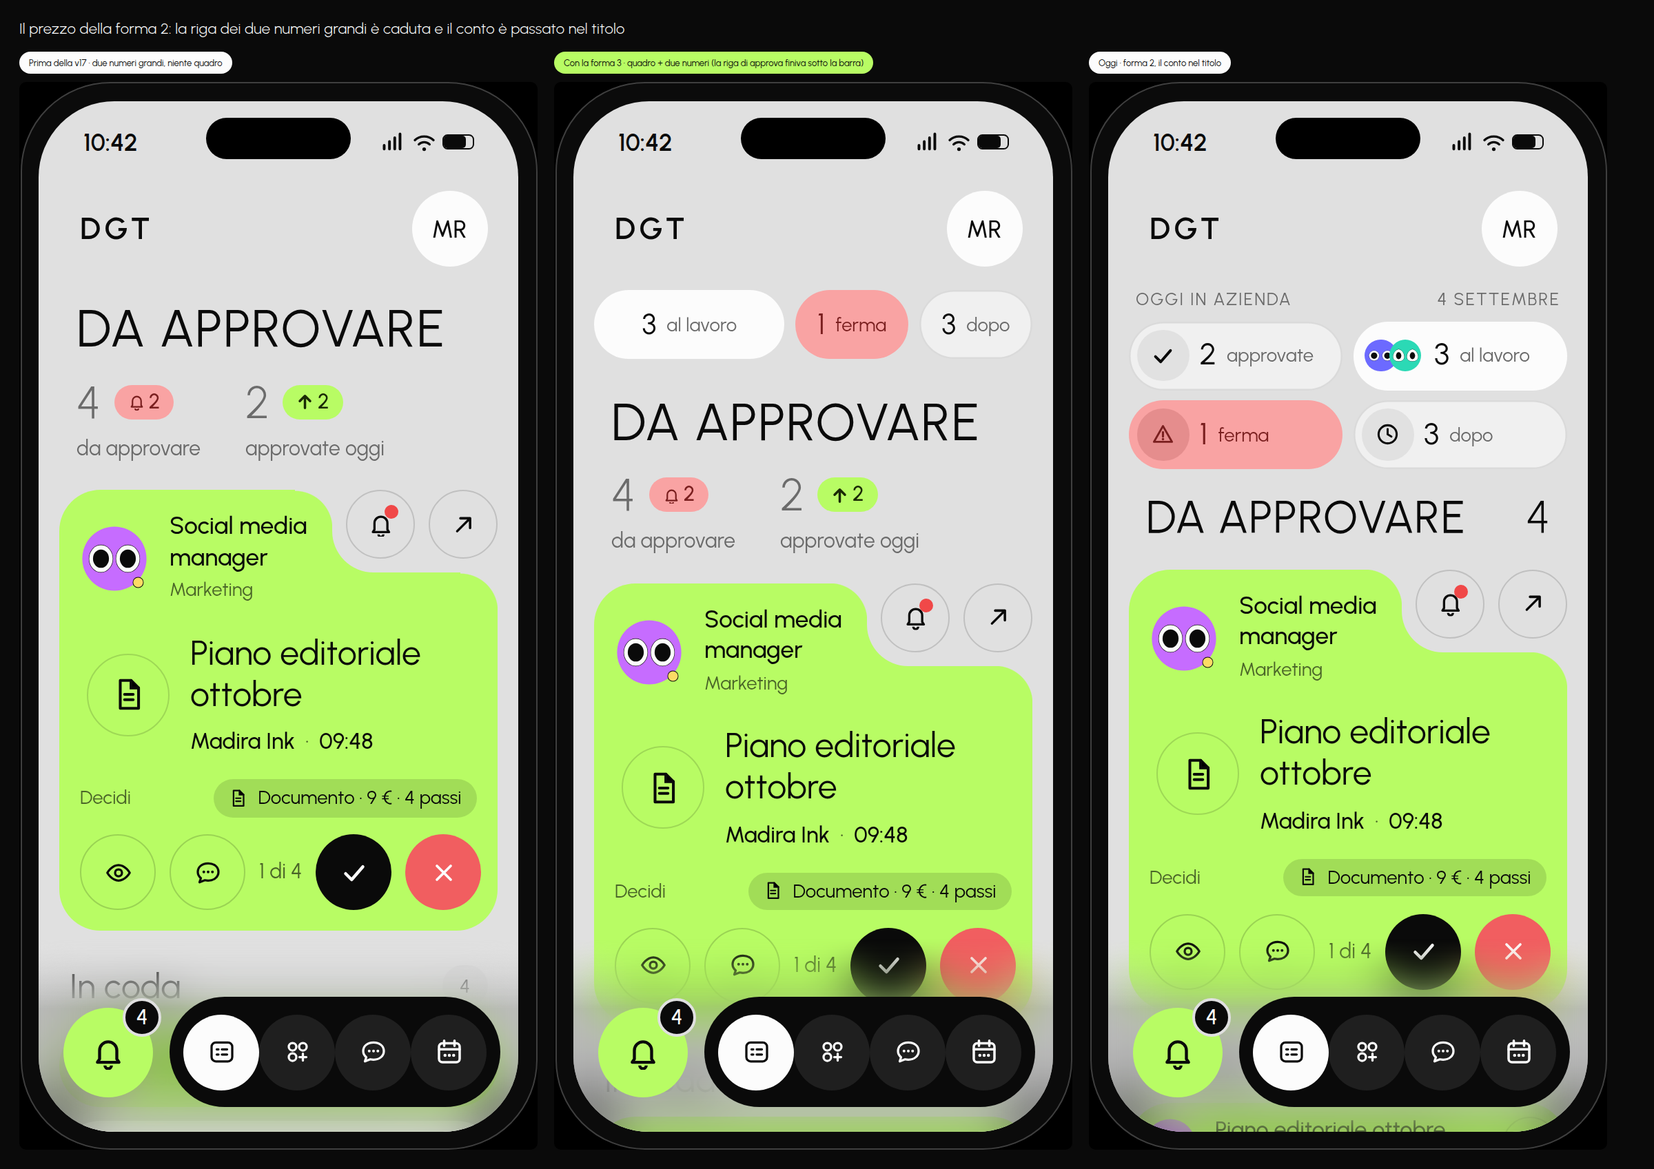
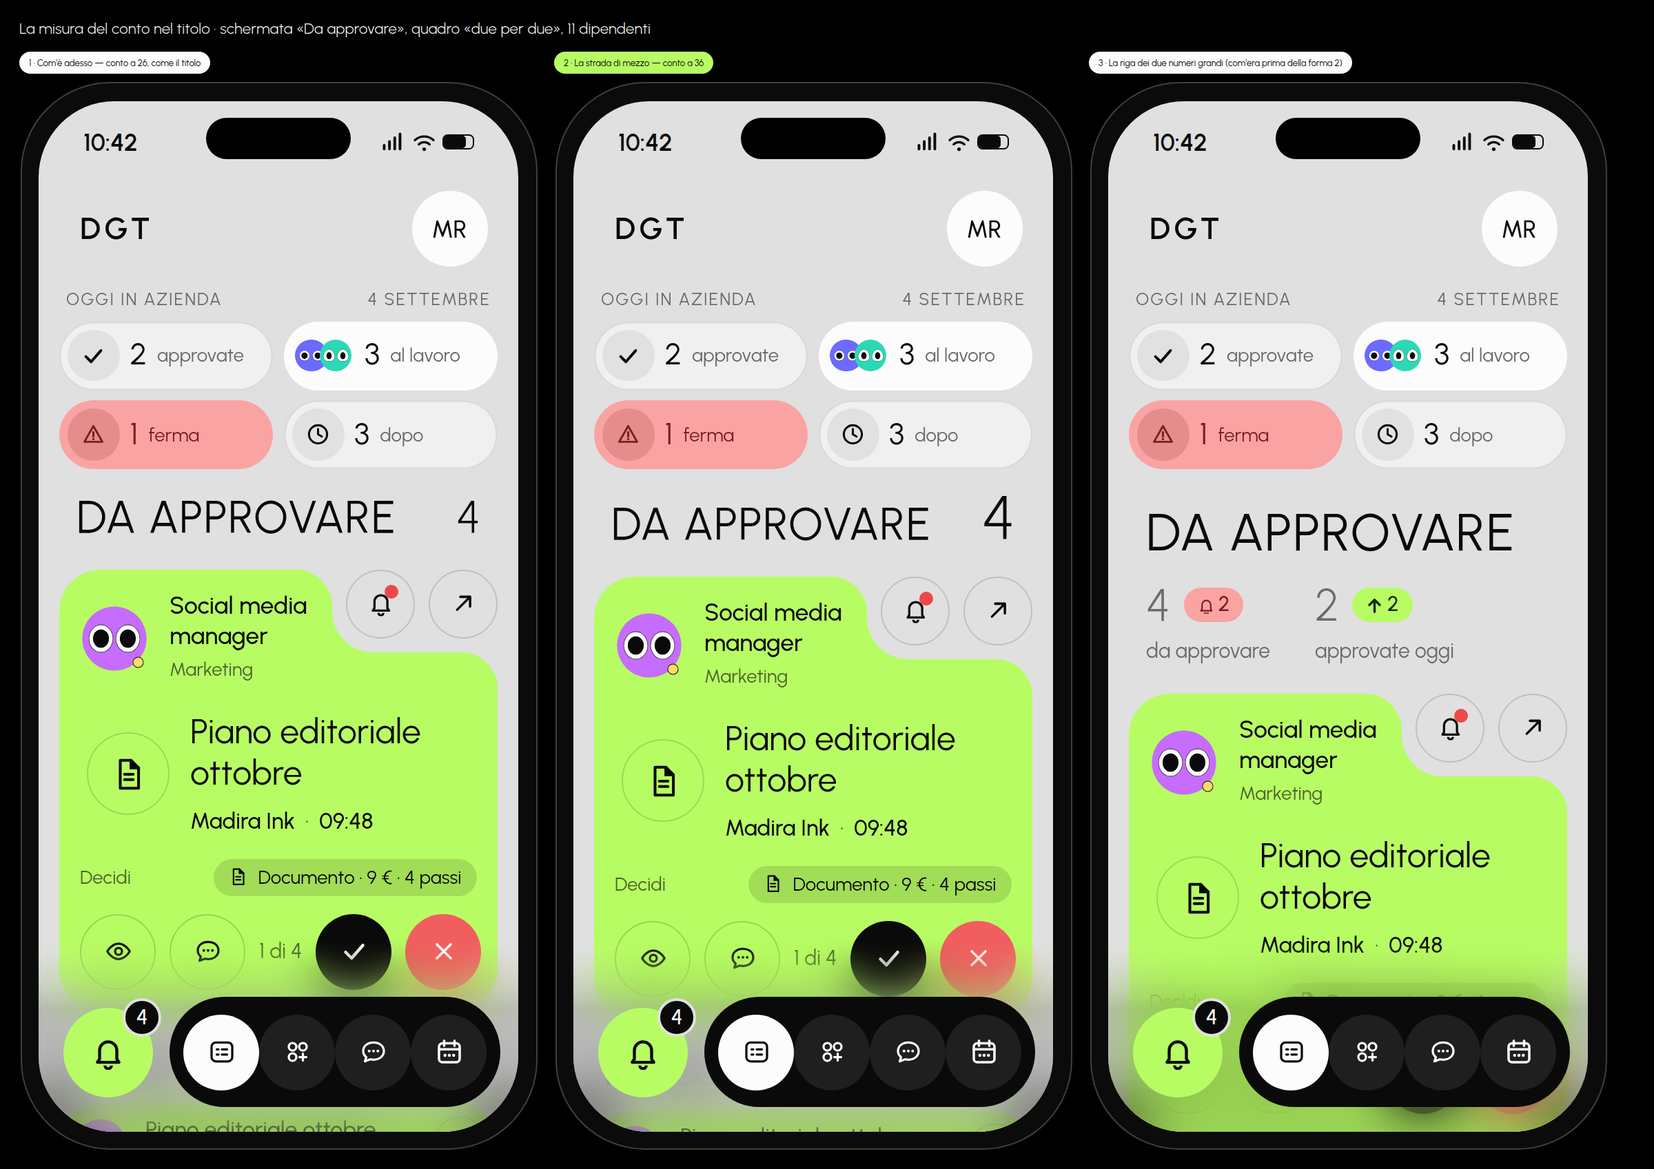
Telefono: lo studio della misura del conto nel titolo (?conta=)
Alla vista della versione 18 l'utente ha chiesto di rivedere il prezzo
pagato nella versione 17 per far stare il quadro «due per due»: la riga
dei due numeri grandi tolta dalla schermata 1 e il conto passato dentro
il titolo.

Tre forme disegnate nel telefono vero dietro ?conta=, catturate e
affiancate in m-conta-titolo.png: 1 il conto a 26 come il titolo (la
forma attiva), 2 la strada di mezzo col conto a 36, 0 la riga dei due
numeri grandi. Misurato: la strada di mezzo costa 4 px di card (244 su
256 invece di 248) e tiene la riga di approva e rifiuta sopra la
navigazione; la riga dei due numeri grandi ne lascia 176 e la fa
ricadere sotto. Nessuna delle due va a capo, nemmeno a tre cifre.

Corretto quello che diceva la versione 17: il titolo sta a 26 px per la
larghezza della parola, non per la misura del numero.

CONTA resta 1 finché l'utente non sceglie, quindi le undici catture del
telefono sono identiche byte per byte. Quattro verifiche nuove in
prove/mobile.js (mobile 70 -> 74, in tutto 283).

Claude-Session: https://claude.ai/code/session_01THzjTQkyQYxd6RnE8P6BiM

diff --git a/schermate/direzioni/mobile.js b/schermate/direzioni/mobile.js
@@ -324,6 +324,10 @@ window.DGT_MOBILE = (function () {
    cifre. È anche la misura dei numeri grandi che sostituisce, così titolo e conto si leggono come una riga sola. */
 .m-h1.conta{display:flex;align-items:baseline;justify-content:space-between;gap:12px;font-size:26px;line-height:32px;white-space:nowrap;padding-top:12px}
 .m-h1.conta b{font-weight:300;font-size:26px;line-height:30px;flex:none;letter-spacing:0}
+/* la strada di mezzo (?conta=2): il titolo resta a 26 e il conto sale a 36, così il numero torna a essere la prima cosa
+   che si vede — quello che faceva la riga dei due numeri grandi — senza ricomprarne i 78 px di altezza. La riga non
+   cresce perché il numero eredita l'interlinea del titolo e le cifre non hanno discendenti. */
+.m-h1.conta.grande b{font-size:36px;line-height:32px}
 /* forma 3 «la riga che parla» (scartata): una riga sola, le tre caselle che chiedono un'azione, numero e parola accanto.
    Niente pila: con la pila le tre caselle sommano 273 px e la colonna ne dà 254. */
 .m-quadro.riga .riga{display:flex;gap:6px;min-width:0}
@@ -436,6 +440,12 @@ window.DGT_MOBILE = (function () {
      ?barra=0 nella Console; ?quadro=0 toglie il quadro e rimette il telefono di prima. */
   const QUADRO = 2;
 
+  /* La misura del conto nel titolo della schermata 1 (studio del 2026-09-07, dopo la scelta della forma 2). Col quadro
+     «due per due» la riga dei due numeri grandi è caduta e «da approvare» è passato nel titolo: resta da decidere quanto
+     grande sia quel numero. 1 = come il titolo (26); 2 = la strada di mezzo, titolo 26 e numero 36; 0 = la riga dei due
+     numeri grandi torna al suo posto. `?conta=` sceglie. */
+  const CONTA = 1;
+
   /* ---------- il quadro del giorno (versione 17, 2026-09-07) ----------
      La barra «Oggi in azienda» della Console sul telefono. Stessi conti (`m.gruppiOggi()`), tre forme messe a confronto
      nello studio; `?quadro=` sceglie (0 = niente, il telefono di prima). Sul telefono cadono sempre i dettagli della
@@ -489,12 +499,14 @@ window.DGT_MOBILE = (function () {
       <div class="m-scroll">
         <div class="m-nav"><span class="m-logo">DGT</span><span class="r"><span class="av persona">${esc(m.azienda.titolare.iniziali)}</span></span></div>
         ${st.quadro ? quadroGiorno(m, st.quadro) : ''}
-        ${st.quadro === 2
+        ${st.quadro === 2 && st.conta
           /* con il quadro «due per due» il titolo porta il conto e la riga dei due numeri grandi cade: «approvate oggi» lo
-             dice già la casella del quadro (correzione 16a) e «da approvare» lo dice il titolo. Vedi il commento sotto. */
+             dice già la casella del quadro (correzione 16a) e «da approvare» lo dice il titolo. Vedi il commento sotto.
+             ?conta= sceglie la misura del numero: 1 come il titolo (26), 2 la strada di mezzo (36), 0 rimette la riga dei
+             due numeri grandi anche col quadro 2, per il confronto. */
           /* niente spazio fra la parola e il numero: sono due elementi flex e lo spazio, con nowrap, allarga il primo
              quanto basta a mandare il titolo a capo (misurato: 234 px liberi, 222 senza spazio, oltre con) */
-          ? `<h3 class="m-h1 conta">DA APPROVARE<b>${c.length}</b></h3>`
+          ? `<h3 class="m-h1 conta${st.conta === 2 ? ' grande' : ''}">DA APPROVARE<b>${c.length}</b></h3>`
           : `<h3 class="m-h1">DA APPROVARE</h3>
         <div class="m-stats">
           <div class="m-stat"><span class="num">${c.length}${c.length ? `<span class="badge down">${ic('i-bell')}${Math.min(2, c.length)}</span>` : ''}</span><span>da approvare</span></div>
@@ -760,7 +772,7 @@ window.DGT_MOBILE = (function () {
      quello che si decide su uno si vede subito sugli altri (e nella Console, che legge lo stesso modello). */
   function monta(radice, m, opz) {
     opz = opz || {};
-    const st = { richiesta: opz.richiesta || 0, filo: opz.filo || ((m.fili()[0] || {}).e || m.dipendenti[0]).id, quadro: opz.quadro === undefined ? QUADRO : opz.quadro, dip: opz.dip || m.dipartimenti[0].id, cerca: undefined };
+    const st = { richiesta: opz.richiesta || 0, filo: opz.filo || ((m.fili()[0] || {}).e || m.dipendenti[0]).id, quadro: opz.quadro === undefined ? QUADRO : opz.quadro, conta: opz.conta === undefined ? CONTA : opz.conta, dip: opz.dip || m.dipartimenti[0].id, cerca: undefined };
     const tels = (opz.schermate && opz.schermate.length ? opz.schermate : [1, 2, 3, 4, 5, 6, 7, 8]).map((s, i) => ({ n: i + 1, schermata: s >= 2 && s <= 8 ? s : 1, motivo: false }));
     const n = () => coda(m).length;
     radice.innerHTML = `<div class="m-page">

diff --git a/schermate/direzioni/prove/mobile.js b/schermate/direzioni/prove/mobile.js
@@ -132,6 +132,32 @@ const check = (cond, msg) => { if (cond) { ok++; console.log('  ok  ' + msg); } 
   });
   check(misure.visibile >= 245, `della card della richiesta restano visibili ${misure.visibile} px su 256 sopra la navigazione`);
   check(misure.sopra, `la riga con approva e rifiuta sta sopra la navigazione (${misure.spazio} px di margine)`);
+  /* Lo studio della misura del conto nel titolo (2026-09-07): `?conta=` mette a confronto le tre forme. Quella scelta
+     resta la 1 (numero a 26, come il titolo); la 2 è la strada di mezzo (numero a 36) e costa 4 px di card; la 0 rimette
+     la riga dei due numeri grandi e fa ricadere la riga di approva e rifiuta sotto la navigazione — è il prezzo che la
+     forma 2 del quadro ha già pagato una volta, e questa prova impedisce di ripagarlo per sbaglio. */
+  const cardVisibile = () => page.evaluate(() => {
+    const Z = 1.25, tel = document.querySelector('.m-tel'), nav = tel.querySelector('.m-bnav').getBoundingClientRect();
+    const card = tel.querySelector('.ncard.task').getBoundingClientRect();
+    const riga = tel.querySelector('.ncard.task .st .row').getBoundingClientRect();
+    const h1 = tel.querySelector('.m-h1'), num = h1.querySelector('b');
+    return { visibile: Math.round((Math.min(card.bottom, nav.top) - card.top) / Z), sopra: riga.bottom <= nav.top,
+      misura: num ? getComputedStyle(num).fontSize : '', righe: Math.round((h1.getBoundingClientRect().height / Z - 12) / (parseFloat(getComputedStyle(h1).lineHeight) / Z)) };
+  });
+  await page.goto(file('conta=2')); await page.waitForTimeout(600);
+  const mezzo = await cardVisibile();
+  check(mezzo.misura === '36px' && mezzo.righe === 1, 'la strada di mezzo: il conto sale a 36 e il titolo resta su una riga');
+  check(mezzo.sopra && mezzo.visibile >= 240, `e costa 4 px: della card ne restano ${mezzo.visibile}, con la riga di approva e rifiuta ancora sopra la navigazione`);
+  /* il titolo non va a capo con nessun conto: a undici sono 4, ma il numero non ha un tetto nel modello */
+  check(await page.evaluate(() => {
+    const h1 = document.querySelector('.m-tel .m-h1.conta'), num = h1.querySelector('b'), era = num.textContent;
+    const ok = ['4', '47', '147'].every(t => { num.textContent = t; const r = num.getBoundingClientRect(), c = h1.getBoundingClientRect();
+      return r.right <= c.right + 0.5 && c.height / 1.25 <= 50; });
+    num.textContent = era; return ok;
+  }), 'e regge fino a tre cifre senza sforare né andare a capo');
+  await page.goto(file('conta=0')); await page.waitForTimeout(600);
+  const riga0 = await cardVisibile();
+  check(await conta(tel(1) + '.m-stats .m-stat') === 2 && !riga0.sopra, `?conta=0 rimette la riga dei due numeri grandi, e la riga di approva e rifiuta ritorna sotto la navigazione (${riga0.visibile} px di card su 256): è il prezzo che la forma 2 ha pagato`);
   await passo('il quadro del giorno');
 
   console.log('7. la tab Dipartimenti (versione 17)');

diff --git a/schermate/direzioni/mobile.html b/schermate/direzioni/mobile.html
@@ -21,6 +21,7 @@
   // 1 Da approvare · 2 Richiesta · 3 Riepilogo di oggi · 4 Chat · 5 Conversazione · 6 Agenda · 7 Dipartimenti · 8 Dipartimento.
   // ?richiesta=0 (indice nella coda)  ?filo=<id dipendente>  ?dip=svi|mkt|ven|amm (il dipartimento della schermata 8)
   // ?quadro=0|1|2|3 il quadro del giorno in cima alla schermata 1 (versione 17). Scelta: 2 «due per due»; 1 «le quattro a due piani» e 3 «la riga che parla» sono le forme scartate dello studio; 0 = niente, il telefono di prima
+  // ?conta=0|1|2 la misura del conto nel titolo della schermata 1 (solo col quadro 2): 1 come il titolo (26, la scelta), 2 la strada di mezzo (numero a 36), 0 rimette la riga dei due numeri grandi
   // ?n=11|40 e gli stessi parametri dell'avatar della Console (?avatar= ?pelle= ?identita= ?palette= ?corpo= ?occhi= ?segnale= ?carattere=)
   const q = new URLSearchParams(location.search);
   DGT_UI.iconeInserisci();
@@ -32,7 +33,7 @@
   DGT_UI.stile('css-m', DGT_MOBILE.css);    // le cornici del telefono e le tre schermate
   const modello = DGT_DATI.modello(DGT_DATI.nDaUrl());
   const schermate = (q.get('schermata') || '1,2,3,4,5,6,7,8').split(',').map(Number).filter(s => s >= 1 && s <= 8);
-  DGT_MOBILE.monta(document.getElementById('root'), modello, { schermate, richiesta: +(q.get('richiesta') || 0), filo: +(q.get('filo') || 0), dip: q.get('dip') || '', quadro: q.has('quadro') ? +q.get('quadro') : undefined });
+  DGT_MOBILE.monta(document.getElementById('root'), modello, { schermate, richiesta: +(q.get('richiesta') || 0), filo: +(q.get('filo') || 0), dip: q.get('dip') || '', quadro: q.has('quadro') ? +q.get('quadro') : undefined, conta: q.has('conta') ? +q.get('conta') : undefined });
 </script>
 </body>
 </html>

diff --git a/schermate/direzioni/scatta.js b/schermate/direzioni/scatta.js
@@ -70,6 +70,11 @@ const CATTURE = [
   { g: 'quadro', nome: 'm-quadro-duedue-40', file: 'mobile.html', q: 'schermata=1&n=40', sel: '.m-tel', h: 1100 },
   { g: 'quadro', nome: 'm-quadro-piani', file: 'mobile.html', q: 'schermata=1&quadro=1', sel: '.m-tel', h: 1100 },
   { g: 'quadro', nome: 'm-quadro-riga', file: 'mobile.html', q: 'schermata=1&quadro=3', sel: '.m-tel', h: 1100 },
+  /* lo studio della misura del conto nel titolo (2026-09-07, dopo la scelta della forma 2): le tre forme messe a
+     confronto in `m-conta-titolo.png`. `conta=0` rimette la riga dei due numeri grandi, 1 è la scelta, 2 la strada di mezzo. */
+  { g: 'quadro', nome: 'm-conta-riga', file: 'mobile.html', q: 'schermata=1&quadro=2&conta=0', sel: '.m-tel', h: 1100 },
+  { g: 'quadro', nome: 'm-conta-26', file: 'mobile.html', q: 'schermata=1&quadro=2&conta=1', sel: '.m-tel', h: 1100 },
+  { g: 'quadro', nome: 'm-conta-36', file: 'mobile.html', q: 'schermata=1&quadro=2&conta=2', sel: '.m-tel', h: 1100 },
   { g: 'dip', nome: 'm-dipartimenti', file: 'mobile.html', q: 'schermata=7', sel: '.m-tel', h: 1100 },
   { g: 'dip', nome: 'm-dipartimenti-40', file: 'mobile.html', q: 'schermata=7&n=40', sel: '.m-tel', h: 1100 },
   { g: 'dip', nome: 'm-dipartimento', file: 'mobile.html', q: 'schermata=8&dip=mkt', sel: '.m-tel', h: 1100 },

diff --git a/PROSSIMA-SESSIONE.md b/PROSSIMA-SESSIONE.md
@@ -76,7 +76,7 @@ Sull'insieme di riferimento (a quaranta i numeri crescono, le famiglie no). Tabe
 ### Verifica
 
 - **Le quattro prove cliccate passano**: `console.js` **107** (erano 97: dieci verifiche nuove sulle frecce),
-  `mobile.js` **70** (era 69), `costi.js` 48, `agenda-chat.js` 54. In tutto **279** (erano 268).
+  `mobile.js` **74** (era 69: una sulle frecce e quattro sullo studio del conto nel titolo), `costi.js` 48, `agenda-chat.js` 54. In tutto **283** (erano 268).
 - Zero frecce senza azione su tredici pagine, quattro viste e le due taglie; le due dell'anteprima dell'editor sono
   contate a parte e dichiarate.
 - **Sessantacinque liste** con più di una riga, tutte con le righe sulla stessa griglia (è la prova che tiene in piedi
@@ -107,6 +107,23 @@ Sull'insieme di riferimento (a quaranta i numeri crescono, le famiglie no). Tabe
   («Versione 18» con il censimento, le diciotto famiglie, le tre lezioni, i riquadri dei pixel e le scelte da
   confermare), i quattro README.
 - Regole in `CLAUDE.md`: invariate (direzione A, avatar della versione 10, niente emoji).
+
+### Coda: la misura del conto nel titolo (studio del 2026-09-07)
+
+Alla vista della versione 18 l'utente ha chiesto di rivedere il prezzo pagato nella versione 17 per far stare il quadro
+«due per due» (la riga dei due numeri grandi tolta e il conto passato nel titolo). Tre forme dietro `?conta=`, catturate
+e affiancate in `m-conta-titolo.png`:
+
+| `?conta=` | Che cos'è | Card visibile | La riga di approva e rifiuta |
+|---|---|---|---|
+| **1** (la scelta di adesso) | conto a 26, come il titolo | 248 px su 256 | sopra, 4 px di margine |
+| **2** (la strada di mezzo) | titolo a 26, conto a **36** | 244 px su 256 | sopra |
+| **0** (com'era prima) | la riga dei due numeri grandi | 176 px su 256 | **sotto** |
+
+**La strada di mezzo costa 4 px** e nessuna delle due va a capo, nemmeno con un conto a tre cifre. Una correzione a
+quello che diceva la versione 17: il titolo sta a 26 px per la larghezza della *parola*, non per la misura del numero.
+Quattro verifiche nuove in `prove/mobile.js`. **`CONTA = 1` resta la forma attiva** finché l'utente non sceglie: le
+undici catture del telefono sono identiche byte per byte.
 
 ## Decisioni dell'utente (in ordine)
 
@@ -303,8 +320,31 @@ dipendenti fra loro e condividere memorie e conoscenze per un obiettivo comune.
   l'archivio come **oggetto di prima classe** con l'interfaccia che mostra chi ci ha messo cosa e chi l'ha usata; le
   dipendenze come **legame sull'obiettivo o sull'esecuzione**.
 
-**Le due domande aperte da portargli** (sono state consegnate a fine della sessione della versione 18, come chiedeva il
-prompt; se non ha risposto, vanno rifatte prima di scrivere):
+**Le due domande sono state portate all'utente il 2026-09-07 e la prima è passata da un consiglio di cinque pareri
+indipendenti con revisione incrociata anonima** (`llm-council`). Il verdetto, da confermare con lui:
+
+- **Chi parla nel filo: DGT che indossa il dipartimento** (la strada «economica», ma non nella forma nuda). Tre
+  consiglieri su cinque avevano scelto il Coordinatore-dipendente; tutti e cinque però hanno proposto una terza strada, e
+  le terze strade convergono su due requisiti che la scelta secca non soddisfa: la distribuzione **costa e può
+  sbagliare**, quindi va attribuita; e va **correggibile**, quindi la sua logica deve essere un prompt versionato con un
+  posto dove stare. La sintesi che li soddisfa senza inventare una specie nuova: nel filo parla il **dipartimento**
+  (disco con l'icona del dipartimento, nome «Coordinamento Marketing» — non un avatar con gli occhi: la regola 19 vale
+  per i dipendenti, e il prodotto ha già il disco nero con l'icona per chi non è una persona); il **prompt di
+  coordinamento è una proprietà del dipartimento**, versionato e modificabile nella pagina Dipartimento come il soul
+  prompt lo è in quella del Dipendente; il **costo va sulla riga «coordinamento» del dipartimento**, che in `m.costi` è
+  già un'entità di costo. Conto dei dipendenti invariato, rendimento non inquinato, e la frase che il prodotto può dire
+  di sé: *DGT non assume manager, il management è il software*.
+- **Una parola sola per l'oggetto nuovo**: il consiglio ha notato che «piano / assegnazione / revisione / distribuzione»
+  sono quattro parole per una cosa. Proposta: **il piano** (`tipo: 'piano'` accanto a post, documento, lista, revisione),
+  che contiene **compiti**, uno per dipendente.
+- **Punti ciechi segnalati dalla revisione incrociata, da presidiare quando si scrive**: nessuno aveva detto che cosa il
+  titolare **smette** di approvare (senza una risposta il lavoro *aggiunge* approvazioni invece di toglierle); annullare
+  una distribuzione non restituisce i token già spesi, quindi serve un **preventivo prima**, non un rollback dopo; il
+  filo non deve nascere vuoto («Nessuno coordina il Marketing» è una funzione di punta che chiede un rito prima di
+  servire); e va deciso se i dipendenti **possono rispondere** nel filo del dipartimento — se no non è una chat, è un
+  modulo.
+
+**Le due domande, per esteso** (se l'utente non le conferma, vanno rifatte prima di scrivere):
 
 1. **Chi parla nel filo del dipartimento?** Un dipartimento non è una persona. Risposta economica: parla **DGT**, con i
    messaggi `sistema` che già esistono e che il filo sa già disegnare — zero personaggi nuovi. Risposta ambiziosa: un
@@ -397,7 +437,7 @@ non un controllo) e le quattro liste miste, in cui la colonna resta e qualche ce
   `node schermate/direzioni/prove/console.js` (**107**: tendine, Richieste, editor del dipendente, esecuzione, 40, la barra
   «Oggi in azienda» e la barra dei passi, i controlli delle intestazioni di sezione e, dalla versione 18, **le frecce di
   riga**: zero inerti su tredici pagine, le 65 liste allineate, il confronto che si apre dalla revisione passata),
-  `mobile.js` (**70**: gli otto telefoni, la revisione, le frecce, il rifiuto con motivo, la prova, lo stato vuoto, 40, il
+  `mobile.js` (**74**: gli otto telefoni, la revisione, le frecce, il rifiuto con motivo, la prova, lo stato vuoto, 40, il
   quadro del giorno e la tab Dipartimenti; a ogni passo nessuno schermo che scorre di lato e console pulita), `costi.js`
   (48) e `agenda-chat.js` (54); da qualunque cartella, leggono anche `CHROME_PATH`, girano con `reducedMotion: 'reduce'`,
   escono con 1 se una verifica fallisce. Attenzione: Playwright scorre da solo per cliccare un elemento fuori dallo
@@ -503,9 +543,9 @@ non un controllo) e le quattro liste miste, in cui la colonna resta e qualche ce
    con la cella vuota): è l'unica che si vede e si può ribaltare.
 2. **La chat di dipartimento (candidato 5)**: le due domande sono scritte per esteso nella sezione «Il lavoro della
    prossima sessione» e vanno risposte **prima** di scrivere codice.
-3. **Il giudizio sulla versione 17** (i Dipartimenti, i controlli) e sul prezzo pagato per la forma 2 del quadro: la riga
-   dei due numeri grandi caduta dalla schermata 1 e il conto passato nel titolo. **Portato all'utente a fine sessione
-   della versione 18**; se non ha risposto, va rifatto.
+3. **La scelta fra le tre misure del conto nel titolo** (`?conta=0|1|2`, studio del 2026-09-07): l'utente ha visto le tre
+   forme affiancate in `m-conta-titolo.png` e deve dire quale tiene. Finché non decide resta la 1. Resta anche da sentire
+   il **giudizio sulla versione 17** (i Dipartimenti, i controlli).
 4. I giudizi in sospeso delle versioni 6, 8, 11, 12, 14, 15 e 15a; le scelte di dettaglio della barra (decisioni 33 e 34).
 5. I punti aperti elencati in «Come riprendere».
 

diff --git a/schermate/direzioni/DIREZIONI.md b/schermate/direzioni/DIREZIONI.md
@@ -1593,6 +1593,34 @@ che perdono l'intaglio). Si compongono con
 - Il gallone `i-chevr` del log resta dov'è (la riga che apre una richiesta): la regola dice dove sta una freccia, non
   quale freccia.
 
+#### Coda: la misura del conto nel titolo (studio del 2026-09-07)
+
+Alla vista della versione 18 l'utente ha chiesto di rivedere il prezzo pagato nella versione 17 per far stare il quadro
+«due per due»: la riga dei due numeri grandi tolta dalla schermata 1 e il conto passato dentro il titolo. Tre forme
+disegnate nel telefono vero dietro `?conta=`, catturate e affiancate in `m-conta-titolo.png`:
+
+| `?conta=` | Che cos'è | Card visibile sopra la navigazione | La riga di approva e rifiuta |
+|---|---|---|---|
+| **1** (la scelta di adesso) | conto a 26, come il titolo | **248** px su 256 | sopra, 4 px di margine |
+| **2** (la strada di mezzo) | titolo a 26, conto a **36** | **244** px su 256 | sopra |
+| **0** (com'era prima) | la riga dei due numeri grandi | **176** px su 256 | **sotto**: la decisione va cercata scorrendo |
+
+**La strada di mezzo costa 4 px.** Il numero torna a essere la prima cosa che si vede — quello che faceva la riga dei due
+numeri grandi — senza ricomprarne i 78 px di altezza: il conto eredita l'interlinea del titolo e le cifre non hanno
+discendenti, quindi la riga cresce di 4 px e basta. Misurato: nessuna delle due forme va a capo o sfora, **nemmeno con un
+conto a tre cifre** (il modello ne fa 4 a undici dipendenti e 7 a quaranta, ma il numero non ha un tetto).
+
+Una correzione a quello che diceva la versione 17: il commento nel codice motivava il titolo a 26 px con lo spazio che
+resta al conto a due cifre. Il conto non c'entra — a 26 come a 36 ci stanno tre cifre senza sforare. **Quello che manda
+il titolo a capo è la parola**: «DA APPROVARE» a 30 px chiede 214 px su 222 di riga libera, e col numero e lo stacco non
+ci sta. Il titolo sta a 26 per la sua larghezza, non per la misura del numero.
+
+Quattro verifiche nuove in `prove/mobile.js` inchiodano le tre misure, e la terza (`?conta=0` che rifà cadere la riga di
+approva e rifiuta sotto la navigazione) impedisce di ripagare per sbaglio un prezzo già pagato una volta.
+
+**La forma scelta resta la 1** finché l'utente non decide: `CONTA = 1` in `mobile.js`, le altre due dietro il parametro
+come `?quadro=1|3`. Le undici catture del gruppo `quadro` e `dip` sono identiche byte per byte prima e dopo.
+
 
 ## 5. File
 
